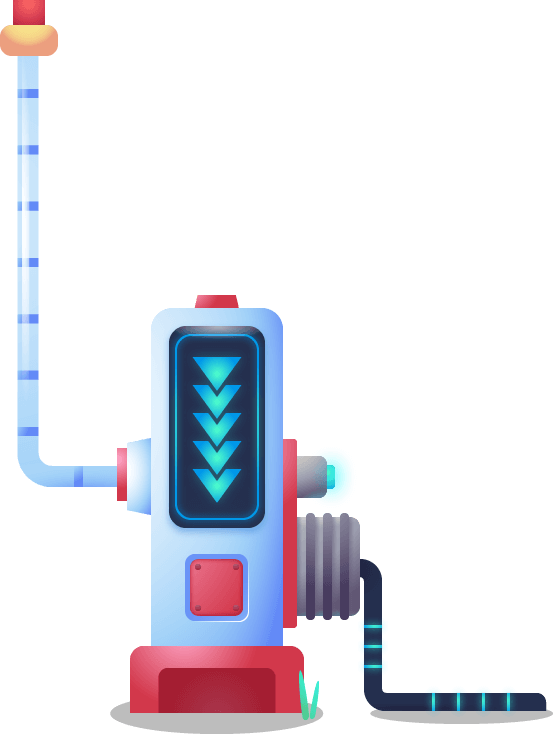
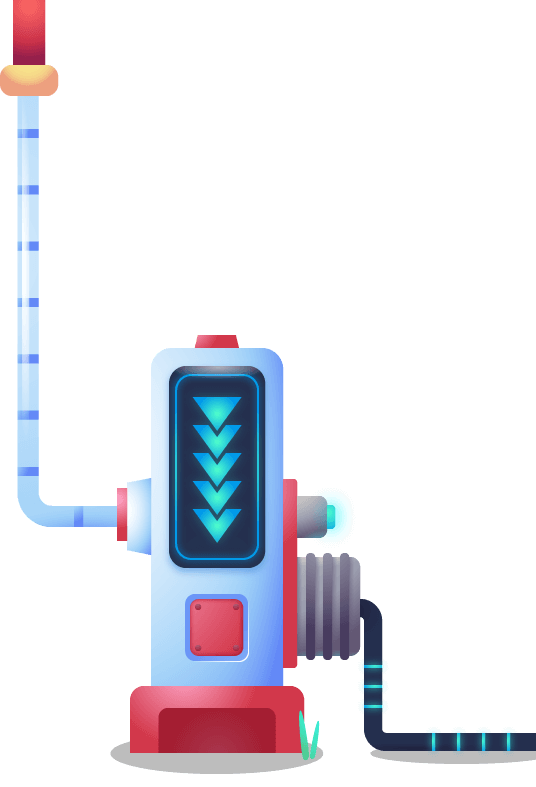
responsive in 4:3

Changed region(s): [[0.0, 0.0, 1.0, 0.9853]]

diff --git a/Projects/pop-the-baloon/src/js/scene/title/title_scene_view.js b/Projects/pop-the-baloon/src/js/scene/title/title_scene_view.js
@@ -1,6 +1,7 @@
 import TitleSceneController from "./title_scene_controller";
 
 import Button from "../../module/objects/button"; 
+import Image from '../../module/objects/image';
 
 export default class TitleSceneView {
     /** @param {TitleSceneController} scene */
@@ -11,25 +12,33 @@ export default class TitleSceneView {
      }
 
      create(){
-        this.Background = this.scene.add.image(this.ScreenUtility.CenterX, this.ScreenUtility.CenterY, 'background');
-        this.Background.displayWidth = this.ScreenUtility.GameWidth;
-        this.Background.displayHeight =this.ScreenUtility.GameHeight;
+        this.Background = new Image (this.scene, 
+          this.ScreenUtility.CenterX, 
+          this.ScreenUtility.CenterY, 
+          'background');
+        this.Background.setDisplaySize(this.ScreenUtility.GameWidth, 
+          this.ScreenUtility.GameHeight);
 
-        this.Light = this.scene.add.image(this.ScreenUtility.CenterX, this.ScreenUtility.CenterY, 'title_light');
-        this.Light.displayWidth = this.ScreenUtility.GameWidth * 0.45;
-        this.Light.displayHeight = this.Light.displayWidth * (this.Light.height/this.Light.width);
+        this.Light = new Image (this.scene, 
+          this.ScreenUtility.CenterX, 
+          this.ScreenUtility.CenterY, 
+          'title_light');
+        this.Light.setDisplayWidth(this.ScreenUtility.GameWidth * 0.45, true);
         this.Light.setScale(this.ScreenUtility.ScalePercentage);
 
-        this.Character = this.scene.add.image(this.ScreenUtility.CenterX, this.ScreenUtility.CenterY, 'title_character');
-        this.Character.displayWidth = this.ScreenUtility.GameWidth * 0.6;
-        this.Character.displayHeight = this.Character.displayWidth * (this.Character.height/this.Character.width);
-        this.Character.setScale(this.ScreenUtility.ScalePercentage); 
+        this.Character = new Image (this.scene, 
+          this.ScreenUtility.CenterX, 
+          this.ScreenUtility.CenterY, 
+          'title_character');
+        this.Character.setDisplayWidth(this.ScreenUtility.GameWidth * 0.5, true);
+        // this.Character.setScale(this.ScreenUtility.ScalePercentage); 
 
         let gameLogoPosY = this.Character.y - (this.ScreenUtility.CenterY + this.Character.displayHeight * 0.5) * 0.5;
-        this.GameLogo = this.scene.add.image(this.ScreenUtility.CenterX, this.ScreenUtility.GameHeight * 0.6, 'logo_game');
-        this.GameLogo.displayWidth = this.ScreenUtility.GameWidth * 0.6;
-        this.GameLogo.displayHeight = this.GameLogo.displayWidth * (this.GameLogo.height/this.GameLogo.width);
-        //this.GameLogo.setOrigin(0.5,1);
+        this.GameLogo = new Image (this.scene, 
+          this.ScreenUtility.CenterX, 
+          this.ScreenUtility.GameHeight, 
+          'logo_game');
+        this.GameLogo.setDisplayWidth(this.ScreenUtility.GameWidth * 0.5, true);
         this.GameLogo.setAlpha(0.5);
         let gamelogoScaleX = this.GameLogo.scaleX;
         this.GameLogo.scaleX = 0;

diff --git a/Projects/pop-the-baloon/src/js/scene/gameplay/gameplay_scene_view.js b/Projects/pop-the-baloon/src/js/scene/gameplay/gameplay_scene_view.js
@@ -44,8 +44,8 @@ export default class GameplaySceneView {
           this.scoreWindow.displayHeight / 2);
 
         this.scoreText = new Text(this.scene,
-          this.scoreWindow.x / 0.925,
-          this.scoreWindow.y / 0.7, 
+          this.scoreWindow.x * 1.08,
+          this.scoreWindow.y * 1.45, 
           "0", 
           { align:'center', fontFamily: 'panton', color: '#f9d023' })
           .setFontSizeRS(90);
@@ -62,8 +62,8 @@ export default class GameplaySceneView {
         this.lever = new Image(this.scene, 0, 0, 'lever');
         this.lever.setDisplayWidth(this.ScreenUtility.GameWidth * 0.15, true);
         this.lever.setDepth(1);  
-        this.lever.setPosition(this.pump.x - this.pump.displayWidth / 9,
-          this.pump.y - this.pump.displayHeight / 3.75);
+        this.lever.setPosition(this.pump.x - this.pump.displayWidth * 0.325 * 0.315,
+          this.pump.y - this.pump.displayHeight * 0.4 * 0.5);
 
         this.createBaloon();
         
@@ -93,7 +93,7 @@ export default class GameplaySceneView {
 
       this.baloon.setPosition(
         this.pump.x - this.pump.displayWidth / 2.25 , 
-        this.pump.y - this.pump.displayHeight / 1.325);
+        this.pump.y - this.pump.displayHeight / 1.45);
       
       this.baloon.setDepth(3);
      }
@@ -134,17 +134,17 @@ export default class GameplaySceneView {
      }
 
      BaloonTween(){
-      this.temp += 23;
+      this.temp += 19;
 
-      if(this.temp >= 115){
-        this.temp = 115
-        console.log(this.baloon.x);
-      console.log(this.baloon.y);
-      }
+      // if(this.temp >= 115){
+      //   this.temp = 115
+      //   console.log(this.baloon.x);
+      // console.log(this.baloon.y);
+      // }
       this.scene.tweens.add({
         targets: this.baloon ,
-        scale: this.baloon.scale + 0.075,
-        y: this.pump.y - this.pump.displayHeight / 1.325 - this.temp,
+        scale: this.baloon.scale + 0.06,
+        y: this.pump.y - this.pump.displayHeight / 1.45 - this.temp,
         yoyo: false,
         ease: 'Power1',
         duration: 150,

diff --git a/Projects/pop-the-baloon/src/js/scene/gameplay/gameplay_scene_controller.js b/Projects/pop-the-baloon/src/js/scene/gameplay/gameplay_scene_controller.js
@@ -94,7 +94,6 @@ export default class GameplaySceneController extends Phaser.Scene {
         let voucherData = VoucherData.Vouchers[CONFIG.VOUCHER_TYPE];
 
         if(this.IsGameWin){
-            console.log("test");
             this.VoucherView.ShowVoucherCode(voucherData.Code, {
                 titleInfo :  voucherData.InfoTitle,
                 description : voucherData.InfoDescription,
